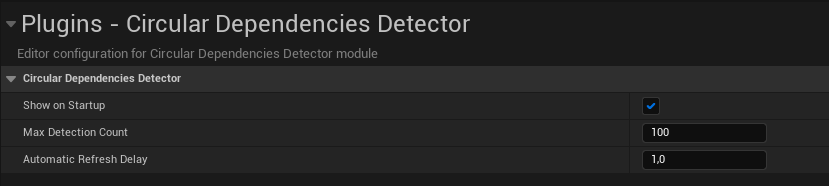
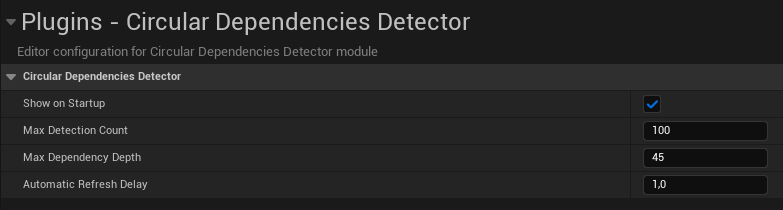
v1.6.2
Max Detection Count

diff --git a/README.md b/README.md
@@ -45,7 +45,9 @@ You can freely **get the plugin via the Unreal Engine marketplace** in order to 
 
 ##### 2.2. [Max Detection Count](#22-Max-Detection-Count-1)
 
-##### 2.3. [Automatic Refresh Delay](#23-Automatic-Refresh-Delay-1)
+##### 2.3. [Max Dependency Depth](#23-Max-Dependency-Depth-1)
+
+##### 2.4. [Automatic Refresh Delay](#24-Automatic-Refresh-Delay-1)
 
 #### 3. [Solve circular dependencies](#3-Solve-circular-dependencies-1)
 
@@ -170,7 +172,11 @@ Enable this option to spawn the CDD Editor Widget on startup.
 
 This is the number of circular dependencies detected from which detection is interrupted.
 
-#### 2.3. Automatic Refresh Delay
+#### 2.3. Max Dependency Depth
+
+This is the length of depenency path from which dependencies are ignored.
+
+#### 2.4. Automatic Refresh Delay
 
 This is the delay in seconds before an automatic refresh, put a negative value to disable the automatic refresh.
 
